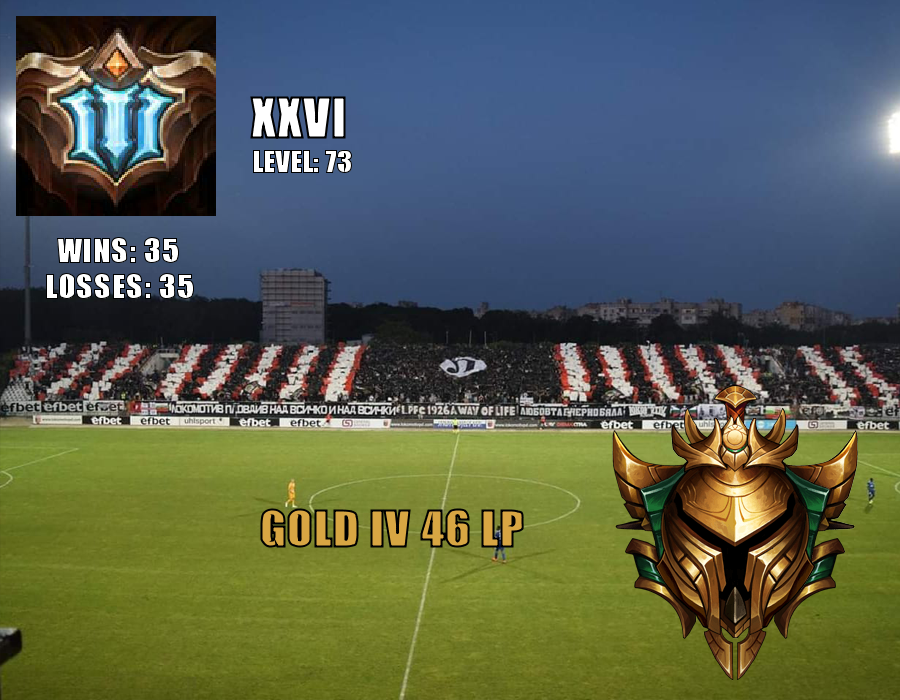
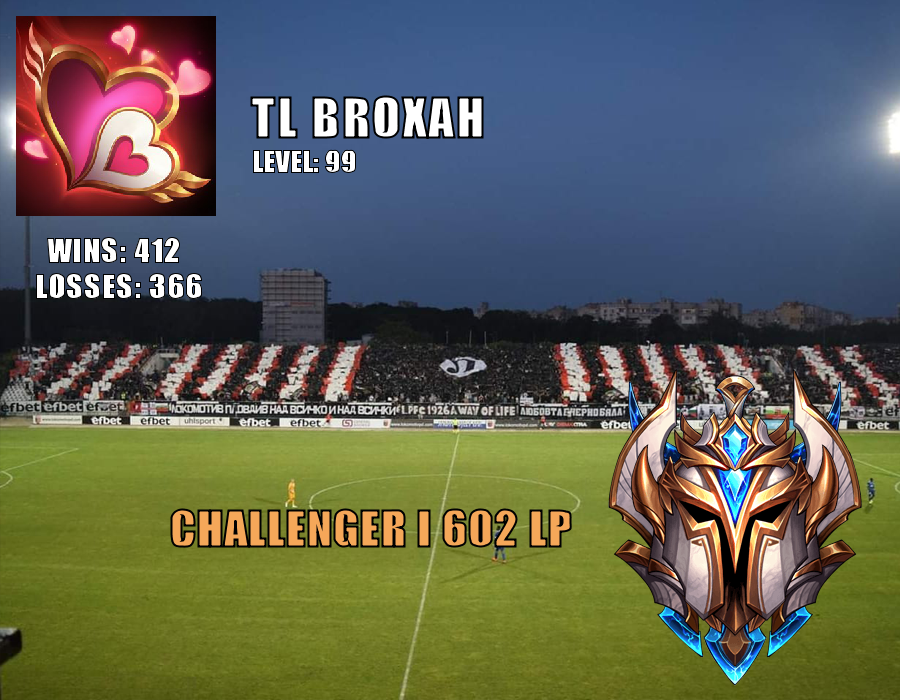
League command working!

diff --git a/src/main/java/LeagueOfLegends/League.java b/src/main/java/LeagueOfLegends/League.java
@@ -7,9 +7,10 @@ import com.merakianalytics.orianna.types.common.Queue;
 import com.merakianalytics.orianna.types.common.Region;
 import com.merakianalytics.orianna.types.core.league.LeagueEntry;
 import com.merakianalytics.orianna.types.core.summoner.Summoner;
-import com.merakianalytics.orianna.types.dto.league.LeagueEntries;
-
 import javax.imageio.ImageIO;
+import java.awt.*;
+import java.awt.font.FontRenderContext;
+import java.awt.font.TextLayout;
 import java.awt.image.BufferedImage;
 import java.io.File;
 import java.io.IOException;
@@ -35,7 +36,6 @@ public class League implements CommandInterface {
         }
 
         Summoner summoner = Orianna.summonerNamed(summonerName).get();
-
         // If summoner exists
         if (summoner.getLevel() == 0){
             context.getChannel().sendMessage("give me a summoner that exists or u get banned").queue();
@@ -43,6 +43,8 @@ public class League implements CommandInterface {
         }
 
         imageSetup(summoner);
+
+        context.getChannel().sendFile(new File("assets/league events/final.png"), "final.png").queue();
 
     }
 
@@ -78,37 +80,186 @@ public class League implements CommandInterface {
 
     private void drawImage(LeagueEntry le, Summoner summoner, Boolean ranked) throws IOException {
 
-        BufferedImage img = ImageIO.read(new File("assets/league events/lokobot template.png"));
-        BufferedImage icon = ImageIO.read(new URL(summoner.getProfileIcon().getImage().getURL()));
-        //BufferedImage tier = null;
+        BufferedImage backgroundImg = ImageIO.read(new File("assets/league events/lokobot template.png"));
+        BufferedImage summonerIcon = ImageIO.read(new URL(summoner.getProfileIcon().getImage().getURL()));
+        BufferedImage tierIcon;
+        String tierImageURL;
+        String tierTextString;
+        int noOfWins;
+        int noOfLosses;
+        Color colourOfLeague;
 
-        try {
-            String tier = le.getTier().toString();
-        } catch (NullPointerException e) {
-            System.out.println(summoner.getName()+ " unranked");
-            // Fix summoner name, only getting 3rd index but name could have space in it
+        if (ranked) {
+
+            String tierName = le.getTier().toString();
+
+            noOfWins = le.getWins();
+            noOfLosses = le.getLosses();
+            tierTextString = le.getTier()+" "+le.getDivision()+" "+le.getLeaguePoints()+" LP";
+
+            switch (tierName.toLowerCase()) {
+                case "iron":
+                    tierImageURL = "https://vignette.wikia.nocookie.net/leagueoflegends/images/0/03/Season_2019_-_Iron_1.png/revision/latest?cb=20181229234926";
+                    colourOfLeague = new Color(93, 86, 86);
+                    break;
+                case "bronze":
+                    tierImageURL = "https://vignette.wikia.nocookie.net/leagueoflegends/images/f/f4/Season_2019_-_Bronze_1.png/revision/latest?cb=20181229234910";
+                    colourOfLeague = new Color(136, 67, 43);
+                    break;
+                case "silver":
+                    tierImageURL = "https://vignette.wikia.nocookie.net/leagueoflegends/images/7/70/Season_2019_-_Silver_1.png/revision/latest?cb=20181229234936";
+                    colourOfLeague = new Color(118, 146, 155);
+                    break;
+                case "gold":
+                    tierImageURL = "https://vignette.wikia.nocookie.net/leagueoflegends/images/9/96/Season_2019_-_Gold_1.png/revision/latest?cb=20181229234920";
+                    colourOfLeague = new Color(216, 166, 67);
+                    break;
+                case "platinum":
+                    tierImageURL = "https://vignette.wikia.nocookie.net/leagueoflegends/images/7/74/Season_2019_-_Platinum_1.png/revision/latest?cb=20181229234932";
+                    colourOfLeague = new Color(69, 224, 156);
+                    break;
+                case "diamond":
+                    tierImageURL = "https://vignette.wikia.nocookie.net/leagueoflegends/images/9/91/Season_2019_-_Diamond_1.png/revision/latest?cb=20181229234917";
+                    colourOfLeague = new Color(66, 80, 132);
+                    break;
+                case "master":
+                    tierImageURL = "https://vignette.wikia.nocookie.net/leagueoflegends/images/1/11/Season_2019_-_Master_1.png/revision/latest?cb=20181229234929";
+                    colourOfLeague = new Color(115, 72, 146);
+                    break;
+                case "grandmaster":
+                    tierImageURL = "https://vignette.wikia.nocookie.net/leagueoflegends/images/7/76/Season_2019_-_Grandmaster_1.png/revision/latest?cb=20181229234923";
+                    colourOfLeague = new Color(248, 83, 83);
+                    break;
+                case "challenger":
+                    tierImageURL = "https://vignette.wikia.nocookie.net/leagueoflegends/images/5/5f/Season_2019_-_Challenger_1.png/revision/latest?cb=20181229234913";
+                    colourOfLeague = new Color(245, 167, 89);
+                    break;
+                default:
+                    tierImageURL = null;
+                    colourOfLeague = null;
+            }
+
+            assert tierImageURL != null;
+            tierIcon = ImageIO.read(new URL(tierImageURL));
+
+        } else {
+            tierIcon = ImageIO.read(new File("assets/league events/unranked.png"));
+            noOfWins = 0;
+            noOfLosses = 0;
+            colourOfLeague = Color.WHITE;
+            tierTextString = "UNRANKED";
         }
 
 
-        }
 
-    private String setRegion(String rawSplit[]) {
+        Image iconScale = summonerIcon.getScaledInstance(200, 200, Image.SCALE_DEFAULT);
+        Graphics g = backgroundImg.getGraphics();
+
+        g.drawImage(iconScale, 16, 16, null);
+        g.drawImage(tierIcon, 595, 366, null);
+
+        Graphics2D g2d = (Graphics2D)g;
+        g2d.setRenderingHint(RenderingHints.KEY_ANTIALIASING, RenderingHints.VALUE_ANTIALIAS_ON);
+        g2d.setRenderingHint(RenderingHints.KEY_RENDERING, RenderingHints.VALUE_RENDER_QUALITY);
+
+        FontRenderContext frc = g2d.getFontRenderContext();
+        TextLayout summonerName = new TextLayout(summoner.getName().toUpperCase(), new Font("Impact", Font.BOLD, 50), frc);
+        Shape nameOutline = summonerName.getOutline(null);
+
+        g2d.translate(250,137);
+        g2d.setColor(Color.WHITE);
+        g2d.fill(nameOutline);
+        g2d.setStroke(new BasicStroke(2));
+        g2d.setColor(Color.BLACK);
+        g2d.draw(nameOutline);
+
+        // Level text
+        TextLayout level = new TextLayout("LEVEL: "+summoner.getLevel(), new Font("Impact", Font.BOLD, 27), frc);
+        Shape levelOutline = level.getOutline(null);
+        g2d.translate(2, 35);
+        g2d.setColor(Color.WHITE);
+        g2d.fill(levelOutline);
+        g2d.setStroke(new BasicStroke(1));
+        g2d.setColor(Color.BLACK);
+        g2d.draw(levelOutline);
+
+        // Wins text
+        TextLayout wins = new TextLayout("WINS: "+noOfWins, new Font("Impact", Font.BOLD, 30), frc);
+        Shape winsOutline = wins.getOutline(null);
+        if (noOfWins >= 100) {
+            g2d.translate(-206, 90);
+        } else {
+            if (noOfWins >= 10) {
+                g2d.translate(-196, 90);
+            } else {
+                g2d.translate(-187, 90);
+            }
+        }
+        g2d.setColor(Color.WHITE);
+        g2d.fill(winsOutline);
+        g2d.setStroke(new BasicStroke(1));
+        g2d.setColor(Color.BLACK);
+        g2d.draw(winsOutline);
+
+        // Losses text
+        TextLayout losses = new TextLayout("LOSSES: "+noOfLosses, new Font("Impact", Font.BOLD, 30), frc);
+        Shape lossesOutline = losses.getOutline(null);
+        g2d.translate(-12, 36);
+        g2d.setColor(Color.WHITE);
+        g2d.fill(lossesOutline);
+        g2d.setStroke(new BasicStroke(1));
+        g2d.setColor(Color.BLACK);
+        g2d.draw(lossesOutline);
+
+        // Tier text
+        TextLayout tierText = new TextLayout(tierTextString, new Font("Impact", Font.BOLD, 45), frc);
+        Shape tierOutline = tierText.getOutline(null);
+        if (tierTextString.toLowerCase().startsWith("challenger") || tierTextString.toLowerCase().startsWith("grandmaster")) {
+            g2d.translate(135, 248);
+        } else {
+            g2d.translate(215, 248);
+        }
+        g2d.setColor(colourOfLeague);
+        g2d.fill(tierOutline);
+        g2d.setStroke(new BasicStroke(2));
+        g2d.setColor(Color.BLACK);
+        g2d.draw(tierOutline);
+        g2d.dispose();
+
+        File outFile = new File("assets/league events/final.png");
+        ImageIO.write(backgroundImg, "png", outFile);
+
+    }
+
+    private String setRegion(String[] rawSplit) {
 
         try {
             switch (rawSplit[2].toLowerCase()){
                 case "na":
                     Orianna.setDefaultRegion(Region.NORTH_AMERICA);
-                    return rawSplit[3];
+                    return appendUsername(rawSplit, 3);
                 case "eune":
                     Orianna.setDefaultRegion(Region.EUROPE_NORTH_EAST);
-                    return rawSplit[3];
+                    return appendUsername(rawSplit, 3);
                 default:
                     Orianna.setDefaultRegion(Region.EUROPE_WEST);
-                    return rawSplit[2];
+                    return appendUsername(rawSplit, 2);
             }
         } catch (ArrayIndexOutOfBoundsException e) {
             return null;
         }
+    }
+
+    private String appendUsername(String[] rawSplit, int usernameBegginingIndex){
+
+        String username = "";
+
+        for (int i = usernameBegginingIndex; i < rawSplit.length; i++){
+            username = username.concat(rawSplit[i]);
+        }
+
+        return username;
+
     }
 
     @Override

diff --git a/src/main/java/Listeners.java b/src/main/java/Listeners.java
@@ -43,6 +43,7 @@ public class Listeners extends ListenerAdapter {
             for (Map.Entry<CommandInterface, List<String>> entry : commands.getCommands().entrySet()) { // For command in command list
                 for (String call : entry.getValue()) { // For call in command call list
                     if (args.startsWith(call)) {
+                        event.getChannel().sendTyping().queue();
                         entry.getKey().handle(ctx);
                     }
                 }

diff --git a/src/main/java/Command/Embeds/Staff.java b/src/main/java/Command/Embeds/Staff.java
@@ -74,7 +74,6 @@ public class Staff implements CommandInterface {
             case "DO_NOT_DISTURB":
                 return " :red_circle:";
         }
-
         return "";
     }
 
